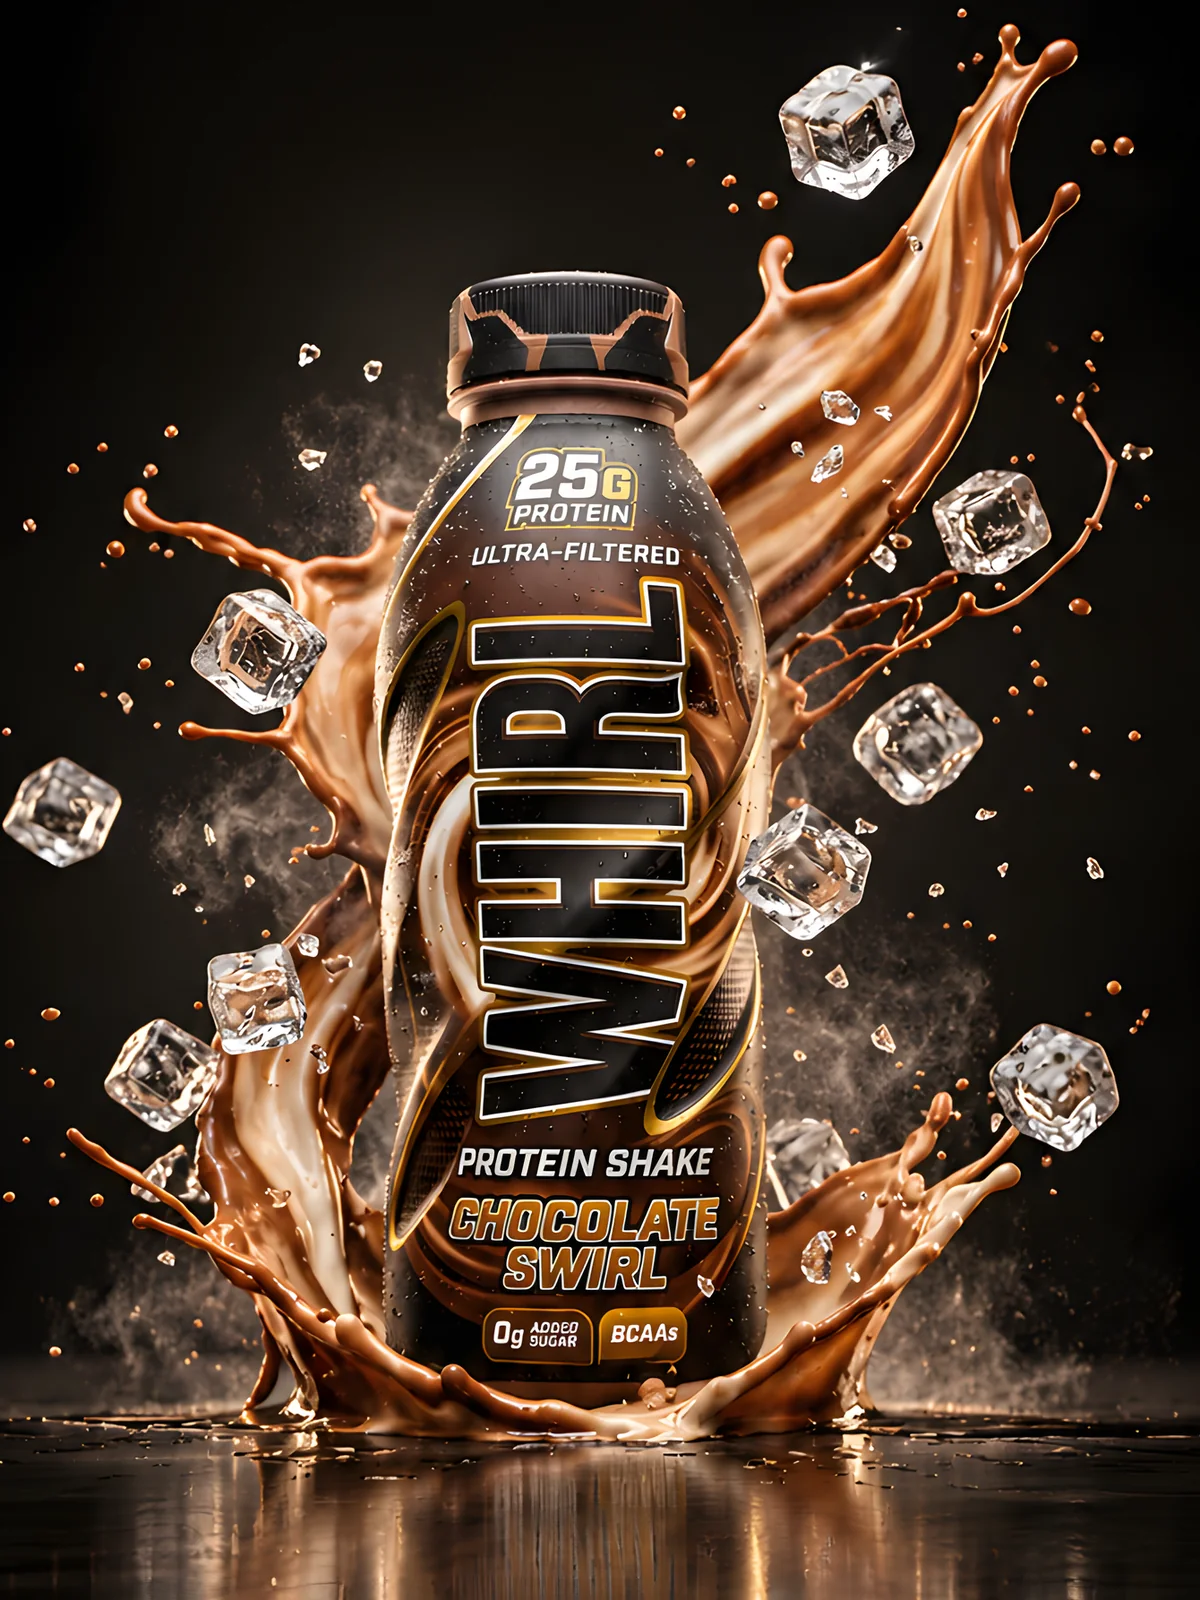
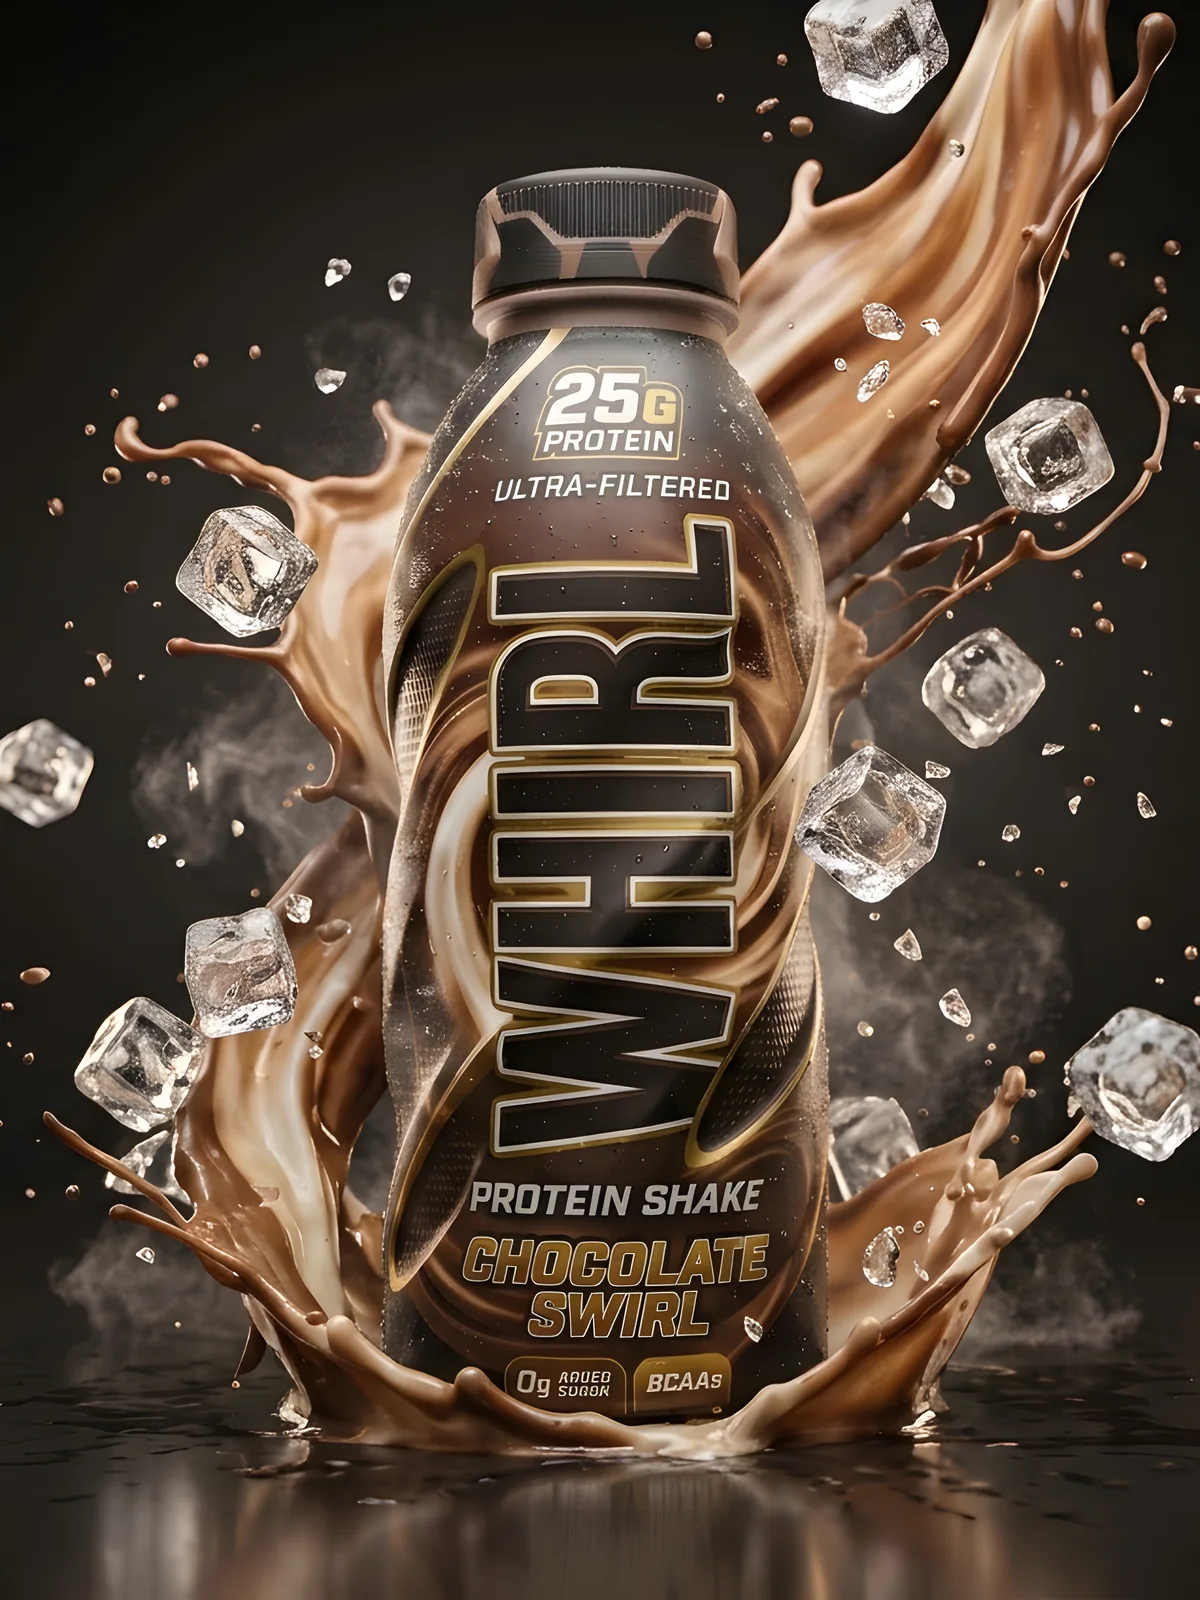
Use the new product photos across the site and center the hero
Section images now come from the four studio shots (ice, splash, open
bottle, clean bottle), each AI-upscaled 4x before cropping so they stay
sharp: Chill uses the ice shot, Shake the splash, Drink the open bottle,
the shake section the clean bottle and the order card the splash. The
hero photo is centered again instead of shifted right.

diff --git a/index.html b/index.html
@@ -70,14 +70,14 @@ button,input{font:inherit;color:inherit}
 
 /* ---------- hero: one sharp photo ---------- */
 .hero{position:relative;height:100vh;height:100svh;min-height:600px;overflow:hidden;background:#000;display:flex;align-items:center}
-.hero-media{position:absolute;inset:-14px -14px -14px 12vw;will-change:transform;-webkit-mask-image:linear-gradient(to right,transparent,#000 24%);mask-image:linear-gradient(to right,transparent,#000 24%)}
+.hero-media{position:absolute;inset:-14px;will-change:transform}
 .hero-media img{width:100%;height:100%;max-width:none;object-fit:cover;object-position:50% 22%;animation:heroin 2.4s var(--ease) both}
 @keyframes heroin{from{opacity:0;transform:scale(1.06)}to{opacity:1;transform:scale(1)}}
 .hero-shade{position:absolute;inset:0;pointer-events:none;background:
-  linear-gradient(90deg,rgba(0,0,0,.7) 0%,rgba(0,0,0,.45) 26%,rgba(0,0,0,0) 46%),
+  linear-gradient(90deg,rgba(0,0,0,.8) 0%,rgba(0,0,0,.55) 24%,rgba(0,0,0,.12) 40%,rgba(0,0,0,0) 46%),
   linear-gradient(to bottom,rgba(0,0,0,.55),rgba(0,0,0,0) 18%,rgba(0,0,0,0) 74%,var(--bg) 100%)}
 .hero-copy{position:relative;z-index:1;width:min(1240px,100% - 40px);margin-inline:auto;padding-top:40px;text-shadow:var(--tshadow)}
-.hero-copy .inner{max-width:min(38vw,540px)}
+.hero-copy .inner{max-width:min(36vw,520px)}
 .hero h1{font-family:var(--display);font-weight:900;text-transform:uppercase;line-height:.9;letter-spacing:.005em;margin:18px 0 0;font-size:clamp(54px,6.4vw,112px)}
 .hero h1 .w{display:inline-block;animation:rise 1.1s var(--ease) both;animation-delay:calc(.5s + var(--i,0)*90ms)}
 .hero h1 .em{color:var(--gold)}
@@ -296,7 +296,7 @@ body.paused *,body.paused *::before,body.paused *::after{animation-play-state:pa
 <section class="hero" id="top" aria-label="Introduction">
   <picture class="hero-media" id="heroMedia">
     <source media="(max-width: 720px), (orientation: portrait) and (max-width: 1024px)" srcset="assets/hero-ice-m-1080.webp 1080w, assets/hero-ice-m-1620.webp 1620w" sizes="100vw">
-    <img src="assets/hero-ice-1920.webp" srcset="assets/hero-ice-1280.webp 1280w, assets/hero-ice-1920.webp 1920w, assets/hero-ice-2560.webp 2560w, assets/hero-ice-3840.webp 3840w" sizes="(max-aspect-ratio: 3/2) 152vh, 92vw" alt="A bottle of WHIRL Chocolate Swirl protein shake in a crown of chocolate milk splash with ice cubes flying" width="3840" height="2576" fetchpriority="high">
+    <img src="assets/hero-ice-1920.webp" srcset="assets/hero-ice-1280.webp 1280w, assets/hero-ice-1920.webp 1920w, assets/hero-ice-2560.webp 2560w, assets/hero-ice-3840.webp 3840w" sizes="(max-aspect-ratio: 3/2) 152vh, calc(100vw + 60px)" alt="A bottle of WHIRL Chocolate Swirl protein shake in a crown of chocolate milk splash with ice cubes flying" width="3840" height="2576" fetchpriority="high">
   </picture>
   <div class="hero-shade" aria-hidden="true"></div>
   <div class="hero-copy">
@@ -388,7 +388,7 @@ body.paused *,body.paused *::before,body.paused *::after{animation-play-state:pa
       <div class="steps" id="steps">
         <svg class="swirl" viewBox="0 0 1200 600" preserveAspectRatio="none" aria-hidden="true"><path id="swirlPath" d="M20 120 C 220 -20, 360 260, 470 180 S 640 40, 760 240 S 980 520, 1180 380"/></svg>
         <article class="step" data-reveal>
-          <figure style="--i:0"><img src="assets/card-chill.webp" alt="A WHIRL Chocolate Swirl bottle standing in a soft spotlight" loading="lazy" width="1200" height="1600"><span class="n">01 / Chill</span></figure>
+          <figure style="--i:0"><img src="assets/card-chill.webp" alt="A WHIRL bottle with ice cubes and chocolate milk flying around it" loading="lazy" width="1200" height="1600"><span class="n">01 / Chill</span></figure>
           <h3 style="--i:1">Chill it</h3>
           <p style="--i:2">Keep a row in the fridge. WHIRL tastes best properly cold.</p>
         </article>
@@ -398,7 +398,7 @@ body.paused *,body.paused *::before,body.paused *::after{animation-play-state:pa
           <p style="--i:2">Three seconds of shaking wakes up the cocoa and makes it extra thick.</p>
         </article>
         <article class="step" data-reveal>
-          <figure style="--i:0"><img src="assets/card-drink.webp" alt="Close up of the Chocolate Swirl label showing 0g added sugar and BCAAs" loading="lazy" width="1200" height="1600"><span class="n">03 / Sip</span></figure>
+          <figure style="--i:0"><img src="assets/card-drink.webp" alt="An open WHIRL bottle with the cap off, ready to drink" loading="lazy" width="1200" height="1600"><span class="n">03 / Sip</span></figure>
           <h3 style="--i:1">Drink it</h3>
           <p style="--i:2">Within an hour of training, or whenever you want something sweet that works for you.</p>
         </article>
